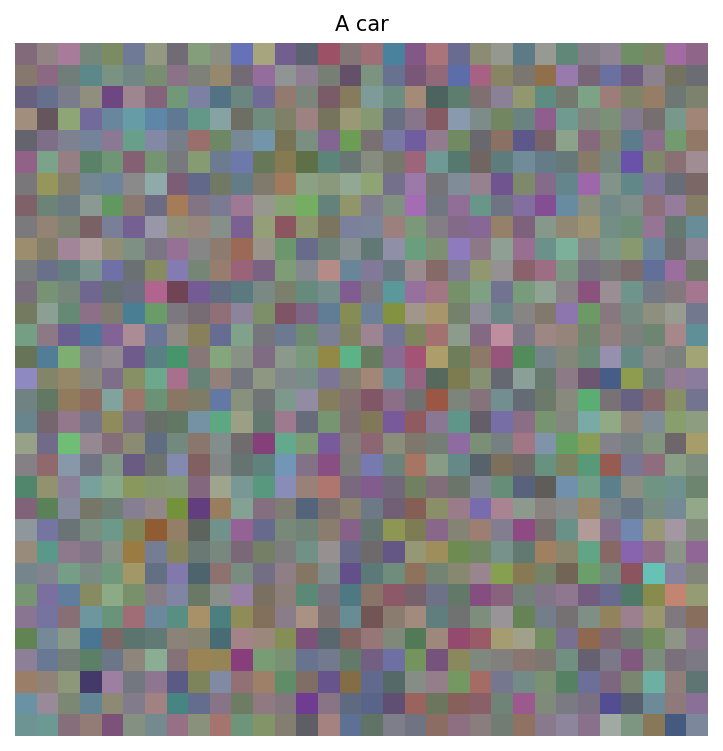
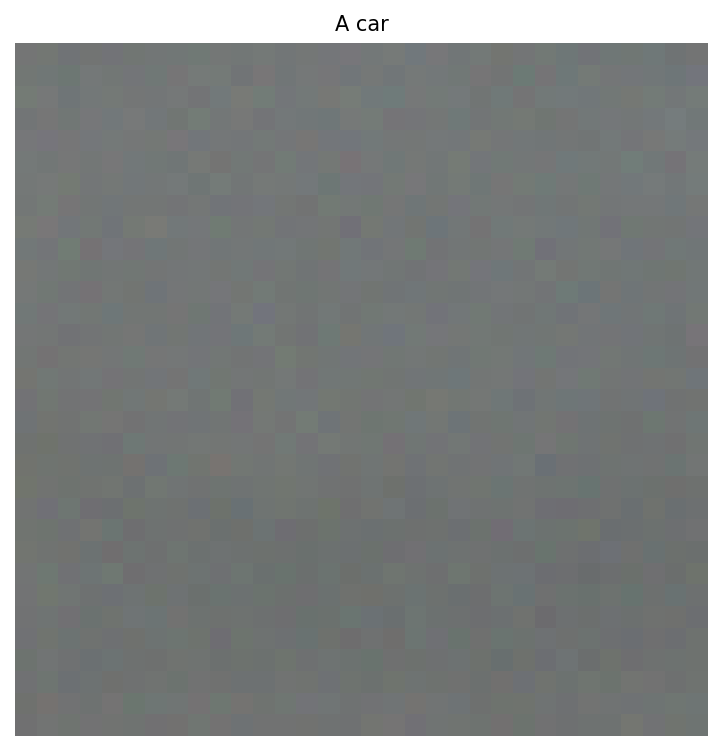
checking in before removing clip embeddings

diff --git a/conditional_diffusion/conditional_diffusion_model/sampler.py b/conditional_diffusion/conditional_diffusion_model/sampler.py
@@ -33,12 +33,22 @@ class DDPMSampler:
         if num_inference_steps is None:
             num_inference_steps = self.noise_scheduler.num_timesteps
             
-        # Step 1: Start with pure noise (scaled down to prevent explosion)
-        x = torch.randn(batch_size, *image_size, device=self.device) * 0.5
+        # Step 1: Start with proper noise (don't scale down!)
+        x = torch.randn(batch_size, *image_size, device=self.device)
         
-        # Step 2: Iteratively denoise
-        timesteps = torch.linspace(self.noise_scheduler.num_timesteps - 1, 0, 
-                                 num_inference_steps, dtype=torch.long, device=self.device)
+        # Step 2: Use proper DDPM timestep spacing
+        # Instead of linear spacing, use the actual timesteps with proper spacing
+        if num_inference_steps < self.noise_scheduler.num_timesteps:
+            # Use every nth timestep for faster sampling
+            step_size = self.noise_scheduler.num_timesteps // num_inference_steps
+            timesteps = torch.arange(self.noise_scheduler.num_timesteps - 1, -1, -step_size, 
+                                   dtype=torch.long, device=self.device)
+            # Ensure we end at timestep 0
+            if timesteps[-1] != 0:
+                timesteps = torch.cat([timesteps, torch.tensor([0], device=self.device)])
+        else:
+            timesteps = torch.arange(self.noise_scheduler.num_timesteps - 1, -1, -1, 
+                                   dtype=torch.long, device=self.device)
         
         self.unet.eval()
         
@@ -55,8 +65,8 @@ class DDPMSampler:
             # Remove predicted noise to get cleaner image
             x = self.denoise_step(x, predicted_noise, t)
             
-            # Clamp values to prevent explosion
-            x = torch.clamp(x, -10.0, 10.0)
+            # More conservative clamping to preserve detail
+            x = torch.clamp(x, -3.0, 3.0)
             
             # Check for NaN/Inf and break if found
             if torch.isnan(x).any() or torch.isinf(x).any():

diff --git a/config.py b/config.py
@@ -2,23 +2,23 @@
 # TRAINING CONFIGURATION - OPTIMIZED FOR FASTER LEARNING
 # =============================================================================
 
-# Training hyperparameters
-BATCH_SIZE = 8              # 🔥 DOUBLE batch size - more stable gradients
+# Training hyperparameters  
+BATCH_SIZE = 16             # 🔥 INCREASED for more stable gradients
 IMAGE_SIZE = 32            # Keep current
-NUM_EPOCHS = 150           # More epochs but faster per epoch
-LEARNING_RATE = 5e-5       # 🔥 5x HIGHER LR - aggressive learning
+NUM_EPOCHS = 200           # More epochs for better convergence
+LEARNING_RATE = 1e-4       # 🔥 REDUCED LR - more stable training
 
 # Dataset configuration
 MAX_SAMPLES = None          
 
-# Model configuration - Optimized for speed + capacity
-TIMESTEPS = 200            # 🔥 MUCH EASIER denoising problem (was 500)
-BASE_CHANNELS = 96         # 🔥 REDUCE slightly - faster training
-TIME_EMB_DIM = 192         # 🔥 REDUCE - less computation
+# Model configuration - Increased capacity for better quality
+TIMESTEPS = 1000           # 🔥 STANDARD timesteps for better denoising
+BASE_CHANNELS = 128        # 🔥 INCREASED model capacity
+TIME_EMB_DIM = 256         # 🔥 INCREASED for better time conditioning
 TEXT_EMB_DIM = 512         # Keep CLIP dimension
 
-# Generation configuration - Better sampling
-NUM_INFERENCE_STEPS = 50   # 🔥 200/50 = 4x ratio (much easier)
+# Generation configuration - Proper sampling
+NUM_INFERENCE_STEPS = 100  # 🔥 More steps for higher quality
 
 # Logging and checkpoints
 CHECKPOINT_EVERY = 10      # 🔥 MORE frequent saves

diff --git a/data_download_cifar.py b/data_download_cifar.py
@@ -1,0 +1,6 @@
+import kagglehub
+
+# Download latest version
+path = kagglehub.dataset_download("joaopauloschuler/cifar10-128x128-resized-via-cai-super-resolution")
+
+print("Path to dataset files:", path)
